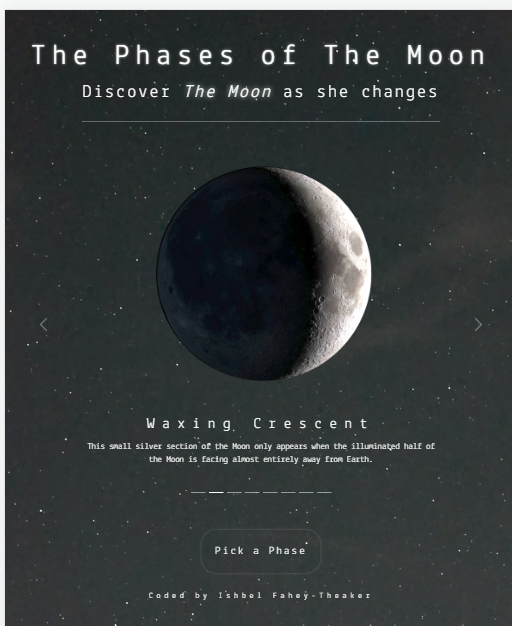
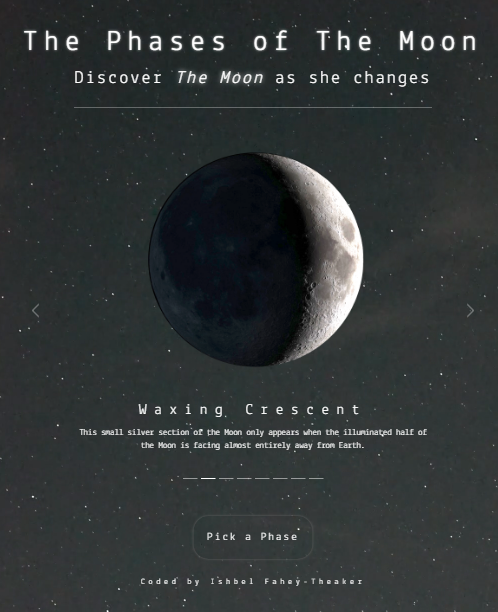
tested new theme, added grid to project page

diff --git a/projects.html b/projects.html
@@ -74,6 +74,61 @@
       </div>
     </nav>
     <h1 class="top-left-heading">Projects</h1>
+    <div class="container project-screenshots">
+      <div class="row">
+        <div class="col-4">
+          <div class="card">
+            <img
+              src="/images/moon-screenshot.png"
+              class="card-img-top p-3"
+              alt="..."
+            />
+
+            <div class="card-body">
+              <h5 class="card-title">Landing Page</h5>
+              <p class="card-text">
+                Here is my landing page themed on the phases of the moon. I used
+                Javascript, HTML and CSS
+              </p>
+              <a href="#" class="btn btn-primary">Launch landing page</a>
+            </div>
+          </div>
+        </div>
+        <div class="col-4">
+          <div class="card">
+            <img
+              src="/images/weather-screenshot.png"
+              class="card-img-top p-3"
+              alt="..."
+            />
+
+            <div class="card-body">
+              <h5 class="card-title">Weather app</h5>
+              <p class="card-text">
+                Some quick example text to build on the card title and make up
+                the bulk of the card's content.
+              </p>
+              <a href="#" class="btn btn-primary">Launch Weather app</a>
+            </div>
+          </div>
+        </div>
+        <div class="col-4">
+          <div class="card">
+            <img src="..." class="card-img-top p-3" alt="..." />
+
+            <div class="card-body">
+              <h5 class="card-title">Dictionary app</h5>
+              <p class="card-text">
+                Some quick example text to build on the card title and make up
+                the bulk of the card's content.
+              </p>
+              <a href="#" class="btn btn-primary">Launch dictionary app</a>
+            </div>
+          </div>
+        </div>
+      </div>
+    </div>
+
     <footer>
       <div class="d-flex icon-container">
         <div class="social-icon">

diff --git a/src/styles.css b/src/styles.css
@@ -9,7 +9,7 @@
   --third-font: "Flavors", cursive;
   --fourth-font: "Nosifer", cursive;
   --fifth-font: "Oi", cursive;
-  --background-color: #0d0e13;
+  --background-color: #74a0b9;
 }
 
 body {
@@ -44,7 +44,7 @@ h2,
   font-family: var(--secondary-font);
 }
 .navigation {
-  background: rgba(13, 14, 19, 0.6) !important;
+  background: rgba(116, 160, 185 0.6) !important;
   font-weight: 400;
 }
 .neon-flicker {
@@ -92,38 +92,31 @@ h2,
   transition: all 300ms ease-out;
 }
 
-.background-video {
-  width: 100vw;
-  height: 28vh;
-  object-fit: cover;
+.home-image {
+  background: url(/images/hanging-sky.jpg);
   position: relative;
+  height: 80vh;
+  justify-content: center;
+  background-size: 100%;
+  display: flex;
+  text-align: center;
+}
+.background-video {
+  position: fixed;
   z-index: -1;
 }
 .background-gradient {
-  background: #0d0e13;
+  background: #818489;
   background: linear-gradient(
     to top,
-    #0d0e14 0%,
-    rgba(33, 37, 41, 0.473) 50%,
+    #74a0b9 0%,
+    #74a0b913 50%,
     rgba(0, 212, 255, 0) 100%
   );
   width: 100%;
-  height: 30vh;
+  height: 82vh;
   position: absolute;
   z-index: 3;
-}
-
-@media (max-width: 1024px) {
-  h1 {
-    margin-top: 3em;
-    font-size: 4.5em;
-  }
-  .social-icon i {
-    font-size: 2em;
-  }
-  .home-image {
-    height: 55vh;
-  }
 }
 
 @media (max-width: 768px) {
@@ -288,4 +281,8 @@ h2,
   76% {
     opacity: 0.8;
   }
+}
+
+.project-screenshots {
+  margin-top: 90px;
 }

diff --git a/index.html b/index.html
@@ -74,19 +74,13 @@
           </ul>
         </div>
       </div>
-    </nav><div class="background-gradient"></div>
-    <video
-      src="/images/motherboard.mp4"
-      autoplay
-      loop
-      mute
-      poster="#"
-      id= "background-video"
-      class="background-video"
-    ></video>
+    </nav>
+    <div class="background-gradient"></div>
+    <div class="home-image"></div>
+    <div class="home-headings-container">
+      <h1 class="neon-flicker home-heading">Ishbel Fahey-Theaker</h1>
+      <h2>Front-end Developer, based in England</h2>
     </div>
-    <h1 class="neon-flicker home-heading">Ishbel Fahey-Theaker</h1>
-    <h2>Front-end Developer, based in England</h2>
     <footer>
       <div class="d-flex icon-container-home">
         <div class="social-icon">
